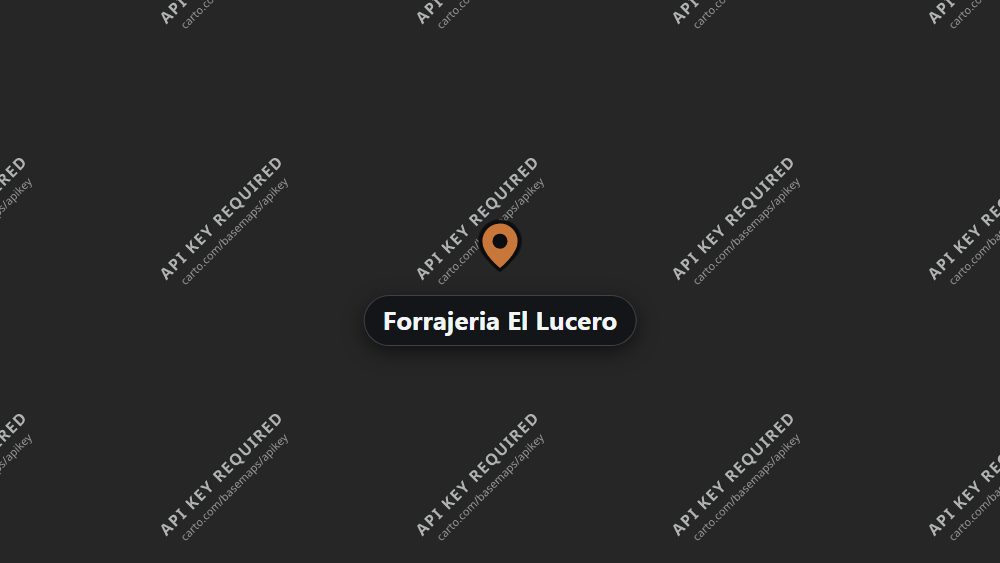
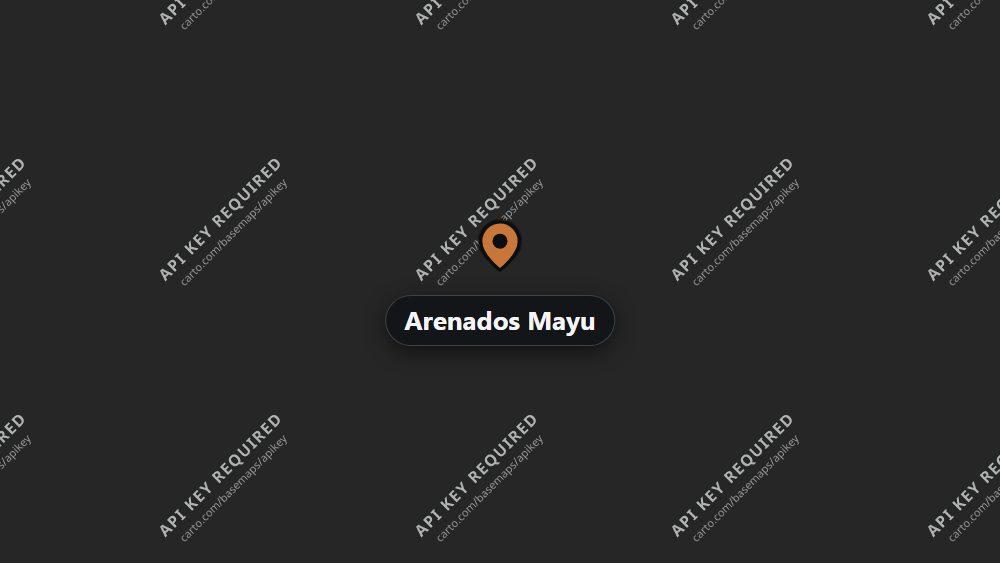
El boton "Como llegar" va a la ficha de Arenados Mayu, no a la forrajeria
El cliente se quejo de que el boton lo llevaba a Forrajeria El Lucero. Google
ya indexo la ficha de Arenados Mayu (kgmid /g/11p1jvl39_), asi que se usan sus
datos reales, leidos de Google Maps:

- CID 0x5e70fe9ed16cc3c9 (antes 0x5feb9062cabc19f0, que era el de la forrajeria)
- coordenadas -31.4741309, -64.5416299 (antes -31.4741584, -64.5416437; son
  unos 10 metros de diferencia, pero ahora son las de la ficha correcta)
- sameAs, hasMap y el href de la tarjeta apuntan al lugar de Arenados Mayu
- se rehace img/mapa-preview.jpg con la etiqueta "Arenados Mayu" en vez de
  "Forrajeria El Lucero" (30 KB, 25/25 tiles de CARTO, mismos parametros)

La direccion que muestra Google para la ficha es "Comechingones 112, X5153AAA
Mayu Sumaj, Cordoba", o sea la que ya estaba en el sitio.

Nota: el texto "API KEY REQUIRED" que reporto el cliente no aparece en ningun
archivo del sitio (se busco en todos los archivos, incluidos los binarios) ni en
la imagen del mapa, que se analizo pixel a pixel: es un mapa real, con el pin y
la etiqueta, sin carteles de error. El mensaje es de Google (Maps o el panel
del Perfil de Negocio), no del sitio.

Verificado: auditoria con 0 fallas, JSON-LD valido, un solo link de Maps, y el
pin visible en el recorte de escritorio y de celular.

diff --git a/index.html b/index.html
@@ -40,9 +40,9 @@
     "sameAs": [
       "https://www.instagram.com/arenados.mayu/",
       "https://wa.me/543541389870",
-      "https://www.google.com/maps/place/Forrajeria+El+Lucero/@-31.4741584,-64.5416437,17z/data=!3m1!4b1!4m6!3m5!1s0x942d69f83739c2b3:0x5feb9062cabc19f0!8m2!3d-31.4741584!4d-64.5416437!16s%2Fg%2F11krbr2dnj"
+      "https://www.google.com/maps/place/Arenados+Mayu/@-31.4741309,-64.5416299,17z/data=!3m1!4b1!4m6!3m5!1s0x942d694c28f6584f:0x5e70fe9ed16cc3c9!8m2!3d-31.4741309!4d-64.5416299!16s%2Fg%2F11p1jvl39_"
     ],
-    "hasMap": "https://www.google.com/maps/place/Forrajeria+El+Lucero/@-31.4741584,-64.5416437,17z/data=!3m1!4b1!4m6!3m5!1s0x942d69f83739c2b3:0x5feb9062cabc19f0!8m2!3d-31.4741584!4d-64.5416437!16s%2Fg%2F11krbr2dnj",
+    "hasMap": "https://www.google.com/maps/place/Arenados+Mayu/@-31.4741309,-64.5416299,17z/data=!3m1!4b1!4m6!3m5!1s0x942d694c28f6584f:0x5e70fe9ed16cc3c9!8m2!3d-31.4741309!4d-64.5416299!16s%2Fg%2F11p1jvl39_",
     "description": "Servicio profesional de arenado y chorreado con arena. Limpieza, desoxidado y preparación de piezas metálicas, estructuras y vehículos para pintura. Recibimos y entregamos en Forrajeria El Lucero, Comechingones (X5153), Mayu Sumaj. Arenado a domicilio en las localidades cercanas.",
     "priceRange": "$$",
     "currenciesAccepted": "ARS",
@@ -56,8 +56,8 @@
     },
     "geo": {
       "@type": "GeoCoordinates",
-      "latitude": -31.4741584,
-      "longitude": -64.5416437
+      "latitude": -31.4741309,
+      "longitude": -64.5416299
     },
     "areaServed": [
       { "@type": "City", "name": "Comechingones" },
@@ -170,9 +170,9 @@
 
       <!-- "Cómo llegar": la tarjeta con el mapa es el botón, y va abajo del
            texto. El mapa es una foto (img/mapa-preview.jpg) para que el celular
-           no cargue Google Maps: pesa 31 KB contra más de 1 MB del mapa vivo.
-           El href apunta al pin exacto de la ficha de Google Maps. -->
-      <a class="mapa-card" href="https://www.google.com/maps/place/Forrajeria+El+Lucero/@-31.4741584,-64.5416437,17z/data=!3m1!4b1!4m6!3m5!1s0x942d69f83739c2b3:0x5feb9062cabc19f0!8m2!3d-31.4741584!4d-64.5416437!16s%2Fg%2F11krbr2dnj" target="_blank" rel="noopener">
+           no cargue Google Maps: pesa 30 KB contra más de 1 MB del mapa vivo.
+           El href apunta al pin exacto de la ficha de Arenados Mayu. -->
+      <a class="mapa-card" href="https://www.google.com/maps/place/Arenados+Mayu/@-31.4741309,-64.5416299,17z/data=!3m1!4b1!4m6!3m5!1s0x942d694c28f6584f:0x5e70fe9ed16cc3c9!8m2!3d-31.4741309!4d-64.5416299!16s%2Fg%2F11p1jvl39_" target="_blank" rel="noopener">
         <img class="mapa-card__img" src="img/mapa-preview.jpg" alt="Mapa con la ubicación de Arenados Mayu en Comechingones 112, X5153" width="1000" height="563">
         <span class="mapa-card__boton">
           <svg class="ico ico--linea" aria-hidden="true"><use href="#i-pin"/></svg>
